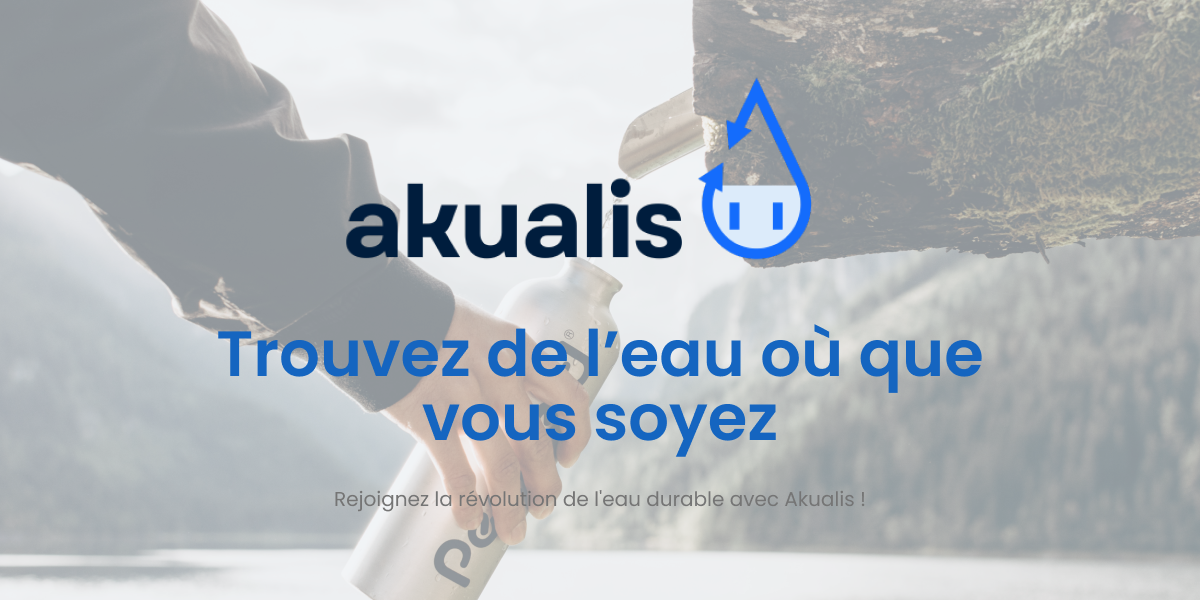
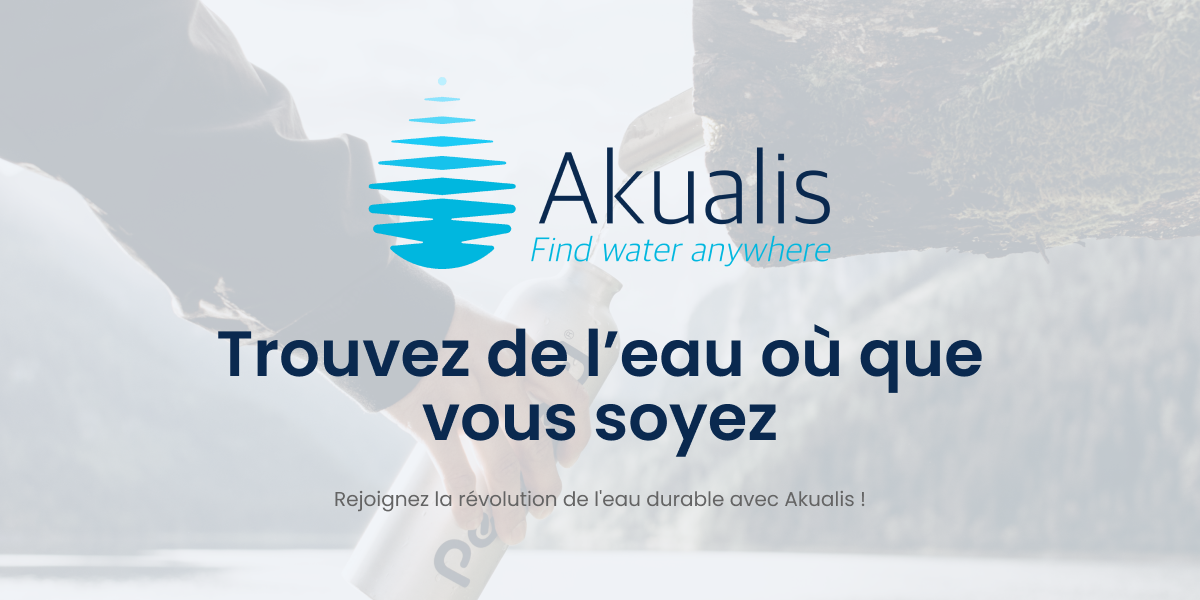
style: preview and social share updated

diff --git a/src/pages/IndexPage.vue b/src/pages/IndexPage.vue
@@ -63,7 +63,7 @@
       <div class="preview-carousel">
         <!-- vertical transition-prev="slide-down" transition-next="slide-up" navigation-icon="radio_button_unchecked" -->
         <q-carousel ref="previewCarousel" v-model="appPreviewSlide" transition-prev="slide-right"
-          transition-next="slide-left" swipeable animated control-color="blue" navigation arrows>
+          transition-next="slide-left" swipeable animated control-color="accent" navigation arrows>
 
           <!-- <template v-slot:navigation-icon="{ active, onClick }">
             <q-btn v-if="active" class="preview-carousel-button active" @click="onClick" />
@@ -99,21 +99,15 @@
         <div class="col-10 col-md-6">
           <p class="subtitle">Notre mission</p>
           <h2 class="">Simplifier et accompagner l’accès à l’eau potable</h2>
-          <pre>Alors que la nécessité de réduire l’utilisation de plastique se fait pressante et que les vagues de chaleur
-        se multiplient, la localisation des points d’eau potable, en ville comme en milieu rural, est un enjeu majeur.
+          <pre>Alors que la nécessité de réduire l’utilisation de plastique se fait pressante et que les vagues de chaleur se multiplient, la localisation des points d’eau potable, en ville comme en milieu rural, est un enjeu majeur.
 
-        Akualis se donne pour mission d’identifier et de rendre accessible tous les points d’eau potable en les
-        cartographiant, et de promouvoir une consommation raisonnée de cette précieuse ressource.
+Akualis se donne pour mission d’identifier et de rendre accessible tous les points d’eau potable en les cartographiant, et de promouvoir une consommation raisonnée de cette précieuse ressource.
 
-        Akualis n'est pas seulement un outil de localisation ; c'est une plateforme collaborative qui invite chacun à
-        découvrir et partager des points d'eau encore inconnus ou à valider ceux déjà répertoriés. Ainsi, la base de
-        données est enrichie en temps réel, offrant un accès fiable et actualisé aux sources d'eau potable.
+Akualis n'est pas seulement un outil de localisation ; c'est une plateforme collaborative qui invite chacun à découvrir et partager des points d'eau encore inconnus ou à valider ceux déjà répertoriés. Ainsi, la base de données est enrichie en temps réel, offrant un accès fiable et actualisé aux sources d'eau potable.
 
-        L’application mobile, intuitive et ludique Akualis est plus qu'un simple outil ; c'est une aventure où chaque
-        utilisateur devient un explorateur de l'eau.
+L’application mobile, intuitive et ludique Akualis est plus qu'un simple outil ; c'est une aventure où chaque utilisateur devient un explorateur de l'eau.
 
-        Ensemble, façonnons un monde où l'accès à l'eau potable est à portée de main de tous.
-      </pre>
+Ensemble, façonnons un monde où l'accès à l'eau potable est à portée de main de tous.</pre>
         </div>
         <div class="col-1 col-md-3"></div>
       </div>
@@ -126,23 +120,14 @@
         <div class="col-12 col-md-6 constat--text">
           <p class="">Constat N°1</p>
           <h3 class="">Localiser les points d’eau potable est un challenge permanent</h3>
-          <pre>Qui n’a jamais cherché de point d’eau potable pour remplir une gourde, un biberon ou simplement pour étancher
-        sa soif ? Et qui a finalement acheté une bouteille d’eau en plastique, sans se douter qu’une fontaine se
-        trouvait certainement à quelques mètres ?
-      </pre>
+          <pre>Qui n’a jamais cherché de point d’eau potable pour remplir une gourde, un biberon ou simplement pour étancher sa soif ? Et qui a finalement acheté une bouteille d’eau en plastique, sans se douter qu’une fontaine se trouvait certainement à quelques mètres ?</pre>
 
           <q-expansion-item class="" dense label="Plus d'informations..." header-class="expander">
             <q-card>
               <q-card-section class="expander--content">
-                <pre>La localisation de la grande majorité des fontaines est pourtant une information publique, disponible
-              notamment dans OpenstreetMap, et plusieurs acteurs se sont déjà attachés à la réalisation de cartes les
-              répertoriant. Cependant, aucun n’a à ce jour réussi à répondre au triple défi d’offrir une couverture
-              géographique à l’échelle nationale, de garantir l’exhaustivité des données, tout en permettant une mise à
-              jour de l’information simple et en temps réel.
+                <pre>La localisation de la grande majorité des fontaines est pourtant une information publique, disponible notamment dans OpenstreetMap, et plusieurs acteurs se sont déjà attachés à la réalisation de cartes les répertoriant. Cependant, aucun n’a à ce jour réussi à répondre au triple défi d’offrir une couverture géographique à l’échelle nationale, de garantir l’exhaustivité des données, tout en permettant une mise à jour de l’information simple et en temps réel.
 
-              Avec Akualis nous répondrons à ces 3 enjeux grâce à notre app interactive et participative. Une approche
-              gaming et des fonctionnalités avancées viendront renforcer la volonté de chacun à contribuer.
-            </pre>
+Avec Akualis nous répondrons à ces 3 enjeux grâce à notre app interactive et participative. Une approche gaming et des fonctionnalités avancées viendront renforcer la volonté de chacun à contribuer.</pre>
               </q-card-section>
             </q-card>
           </q-expansion-item>
@@ -153,23 +138,13 @@
         <div class="col-12 col-md-6 constat--text">
           <p class="">Constat N°2</p>
           <h3 class="">Réduire l’usage du plastique est une priorité</h3>
-          <pre>
-        Savez-vous que, tous les ans, 6,5 millions de tonnes de plastique sont déversées dans l’océan, et que les
-        bouteilles en plastique font partie du top 10 des déchets récupérés sur les plages ?
-      </pre>
-
+          <pre>Savez-vous que, tous les ans, 6,5 millions de tonnes de plastique sont déversées dans l’océan, et que les bouteilles en plastique font partie du top 10 des déchets récupérés sur les plages ?</pre>
           <q-expansion-item class="" dense label="Plus d'informations..." header-class="expander">
             <q-card>
               <q-card-section class="expander--content">
-                <pre>D’où viennent-elles ? En grande partie, de nos consommations terrestres. 9,3 milliards de litres d’eau
-              en bouteille en plastique sont ainsi consommées par an en France alors que l’ensemble de la population a
-              la chance d’avoir accès à de l’eau potable.
+                <pre>D’où viennent-elles ? En grande partie, de nos consommations terrestres. 9,3 milliards de litres d’eau en bouteille en plastique sont ainsi consommées par an en France alors que l’ensemble de la population a la chance d’avoir accès à de l’eau potable.
 
-              La France s’est d’ailleurs donnée pour objectif ambitieux de réduire de 50% le nombre de bouteilles en
-              plastique à usage unique d’ici à 2030. Et Akualis souhaite contribuer à cette objectif en localisant un
-              maximum de points d’eau pour permettre à chacun de trouver facilement un point d’eau pour remplir sa
-              gourde.
-            </pre>
+La France s’est d’ailleurs donnée pour objectif ambitieux de réduire de 50% le nombre de bouteilles en plastique à usage unique d’ici à 2030. Et Akualis souhaite contribuer à cette objectif en localisant un maximum de points d’eau pour permettre à chacun de trouver facilement un point d’eau pour remplir sa gourde.</pre>
               </q-card-section>
             </q-card>
           </q-expansion-item>
@@ -188,21 +163,13 @@
         <div class="col-12 col-md-6 constat--text">
           <p class="">Constat N°3</p>
           <h3 class="">L’accès à l’eau potable, un droit de l’homme universel</h3>
-          <pre>
-        Véritable enjeu de santé publique, l’OMS déclare que l’accès à l’eau potable est un droit de l’homme universel
-        et demande aux Etats de faciliter l’accès à des fontaines publiques.
-      </pre>
+          <pre>Véritable enjeu de santé publique, l’OMS déclare que l’accès à l’eau potable est un droit de l’homme universel et demande aux Etats de faciliter l’accès à des fontaines publiques.</pre>
           <q-expansion-item class="" dense label="Plus d'informations..." header-class="expander">
             <q-card>
               <q-card-section class="expander--content">
-                <pre>En France, poussés par la loi AGEC, les collectivités et établissements accueillants du public sont
-              ainsi engagés dans le déploiement accéléré de sources d’eau potable, mais elles sont bien souvent très peu
-              visibles et donc peu utilisées.
+                <pre>En France, poussés par la loi AGEC, les collectivités et établissements accueillants du public sont ainsi engagés dans le déploiement accéléré de sources d’eau potable, mais elles sont bien souvent très peu visibles et donc peu utilisées.
 
-              Grâce à Akualis ces collectivités et organismes publics pourront informer plus efficacement les citoyens
-              sur les ressources mises à leur disposition. Et les utilisateurs de l'application pourront remplir leur
-              gourdes en ville, dans les gares, dans les centres commerciaux en toute confiance.
-            </pre>
+Grâce à Akualis ces collectivités et organismes publics pourront informer plus efficacement les citoyens sur les ressources mises à leur disposition. Et les utilisateurs de l'application pourront remplir leur gourdes en ville, dans les gares, dans les centres commerciaux en toute confiance.</pre>
               </q-card-section>
             </q-card>
           </q-expansion-item>
@@ -220,8 +187,7 @@
       <div class="row">
         <div class="col-4 number">
           <p class="number--high">25 <span class="text">millions</span></p>
-          <p class="number--text small">de bouteilles d’eau en plastique sont consommées par jour en
-            France</p>
+          <p class="number--text small">de bouteilles d’eau en plastique sont consommées par jour en France</p>
         </div>
         <div class="col-4 number">
           <p class="number--high">75 <span class="text">%</span></p>
@@ -229,8 +195,7 @@
         </div>
         <div class="col-4 number">
           <p class="number--high">2 <span class="text">litres</span></p>
-          <p class="number--text small">d’eau ainsi que 42 L de gaz, 100 ml de pétrole et 80 g de charbon
-            sont nécessaires pour produire une bouteille en plastique d’1L
+          <p class="number--text small">d’eau ainsi que 42 L de gaz, 100 ml de pétrole et 80 g de charbon sont nécessaires pour produire une bouteille en plastique d’1L
           </p>
         </div>
       </div>
@@ -244,21 +209,15 @@
         <div class="col-10 col-md-6">
           <p class="subtitle">L'équipe</p>
           <h2 class="">Qui sommes nous ?</h2>
-          <pre class="text-left">Akualis s'engage à servir l'intérêt général, en mettant en avant des valeurs de
-        transparence et de collaboration.
+          <pre class="text-left">Akualis s'engage à servir l'intérêt général, en mettant en avant des valeurs de transparence et de collaboration.
 
-        A l’origine de l’association, une équipe de 3 fondateurs convaincus qu’un effort collectif est essentiel pour
-        limiter la dégradation environnementale actuelle, et dotés de compétences complémentaires pour lancer le projet
-        :<ul>
-          <li>Pauline apporte son expertise en communication, construction du business plan et développement des
-            partenariats stratégiques,</li>
-          <li>Maxime est garant de la pertinence technique de la plateforme Akualis, de son optimisation et de sa
-            scalabilité,</li>
-          <li>Jérémie est passionné par l’entrepreneuriat solidaire et apporte son expérience dans la gestion de projets
-            technologiques complexes, notamment en matière d’organisation, de budget et de planning, pour garantir la
-            réussite de l’association dans sa mission.</li>
-        </ul>
-      </pre>
+A l’origine de l’association, une équipe de 3 fondateurs convaincus qu’un effort collectif est essentiel pour limiter la dégradation environnementale actuelle, et dotés de compétences complémentaires pour lancer le projet :
+
+<strong>Pauline</strong> apporte son expertise en communication, construction du business plan et développement des partenariats stratégiques,        
+
+<strong>Maxime</strong> est garant de la pertinence technique de la plateforme Akualis, de son optimisation et de sa scalabilité,
+
+<strong>Jérémie</strong> est passionné par l’entrepreneuriat solidaire et apporte son expérience dans la gestion de projets technologiques complexes, notamment en matière d’organisation, de budget et de planning, pour garantir la réussite de l’association dans sa mission.</pre>
         </div>
         <div class="col-1 col-md-3"></div>
       </div>
@@ -286,7 +245,7 @@
       <div class="q-py-xl lt-md">
         <p class="subtitle">Témoignages</p>
         <q-carousel v-model="testimonialSlide" transition-prev="slide-right" transition-next="slide-left" animated
-          navigation swipeable arrows control-color="primary" class="rounded-borders">
+          navigation swipeable arrows control-color="accent" class="rounded-borders">
           <q-carousel-slide v-for="testimonial in testimonials" :key="testimonial.name" :name="testimonial.name"
             class="column no-wrap flex-center">
             <div class="q-mb-xl text-center">
@@ -307,12 +266,7 @@
       <div class="col-1 col-md-3"></div>
       <div class="col-10 col-md-6">
         <h2 class="q-pt-lg">Deviens toi aussi un explorateur de l’eau !</h2>
-        <pre class="">
-        En téléchargeant Akualis, vous aurez l'opportunité unique de contribuer à la création de cette carte
-        répertoriant les points d’eau potable à travers le monde, en identifiant de nouvelles sources d'eau et en
-        confirmant la qualité de celles déjà répertoriées. Carte dont vous pourrez vous-même bénéficier lorsque vous
-        chercherez à remplir votre gourde, réduisant ainsi votre impact environnemental !
-      </pre>
+        <pre class="">En téléchargeant Akualis, vous aurez l'opportunité unique de contribuer à la création de cette carte répertoriant les points d’eau potable à travers le monde, en identifiant de nouvelles sources d'eau et en confirmant la qualité de celles déjà répertoriées. Carte dont vous pourrez vous-même bénéficier lorsque vous chercherez à remplir votre gourde, réduisant ainsi votre impact environnemental !</pre>
 
         <!-- <form>
           <q-input outlined bg-color="white" rounded :disable="isSubmitted" :error-message="emailActiveMessage"
@@ -358,15 +312,15 @@
     <!-- <a style="text-decoration: underline; color: inherit;" href="/infos-legales"
         title="CGU / mentions légales">CGU / Mentions
         légales</a> |  -->
-    <div class="row justify-between items-center"> 
+    <div class="row justify-between items-center">
       <div class="col-12 col-md-4 q-mb-xs">
         <a style="text-decoration: underline; color: inherit;" href="mailto:hello@akualis.com"
           title="Akualis App mail">hello@akualis.com</a>
       </div>
       <div class="col-12 col-md-4 q-mb-xs">
-        <q-btn color="primary" flat round dense icon="mdi-linkedin" @click="goToSocial('linkedin')" />
-        <q-btn flat round dense icon="mdi-facebook" @click="goToSocial('facebook')" />
-        <q-btn flat round dense icon="mdi-instagram" @click="goToSocial('instagram')" />
+        <q-btn color="primary" size="18px" flat round dense icon="mdi-linkedin" @click="goToSocial('linkedin')" />
+        <q-btn color="primary" size="18px" flat round dense icon="mdi-facebook" @click="goToSocial('facebook')" />
+        <q-btn color="primary" size="18px" flat round dense icon="mdi-instagram" @click="goToSocial('instagram')" />
       </div>
       <div class="col-12 col-md-4 q-mb-xs">© 2025 Akualis App. Tous droits réservés.</div>
     </div>
@@ -594,6 +548,20 @@ export default defineComponent({
           right: {
             title: 'Historique d’utilisation',
             description: 'Identifiez quand la fontaine a été utilisée pour la dernière fois, assurant son existence et sa fiabilité.'
+          }
+        }
+      },
+      {
+        picture: '/img/preview/akualis-app-preview-parcours-gpx.webp',
+        alt: 'App Akualis - aperçu de l’import de fichier GPX',
+        info: {
+          left: {
+            title: 'Importez vos parcours',
+            description: 'Ajoutez un fichier GPX pour afficher votre itinéraire et localiser facilement les points d’eau sur votre chemin.'
+          },
+          right: {
+            title: 'Planifiez sereinement',
+            description: 'Anticipez vos arrêts en identifiant les points d’eau disponibles le long de votre trajet.'
           }
         }
       },

diff --git a/src/css/app.scss b/src/css/app.scss
@@ -417,7 +417,7 @@ p.small {
 #hero {
     text-align: center;
     position: relative;
-    background: linear-gradient(rgba(255, 255, 255, 0.6), rgba(255, 255, 255, 0.8)), url('/img/akualis-cover.webp');
+    background: linear-gradient(rgba(255, 255, 255, 0.82), rgba(255, 255, 255, 0.78)), url('/img/akualis-cover.webp');
     background-repeat: no-repeat;
     background-size: cover;
     background-position: center;
@@ -469,7 +469,7 @@ p.small {
     height: 150px;
     width: 420px;
     text-align: left;
-    background-color: $white;
+    background-color: rgba(255, 255, 255, 0.92);
     border-radius: 20px;
     padding: 20px 30px;
 
@@ -480,12 +480,12 @@ p.small {
 
 .preview-carousel-info.left {
     top: 180px;
-    left: 20px;
+    left: 0px;
 }
 
 .preview-carousel-info.right {
     top: 420px;
-    right: 20px;
+    right: 0px;
 }
 
 .preview-carousel-info.top {
@@ -509,16 +509,20 @@ p.small {
     width: 6px;
     // height: 6px;
     // width: 50px;
-    background-color: $secondary;
+    background-color: $accent;
 }
 
 .preview-carousel-button.active {
-    background-color: $primary;
+    background-color: $accent;
 }
 
 .q-carousel__arrow .q-btn .q-icon {
     font-size: 50px;
     /* Adjust this to your desired size */
+}
+
+.q-carousel__navigation-icon--inactive {
+    color: $primary !important;
 }
 
 // .preview-carousel .carousel__slide {
